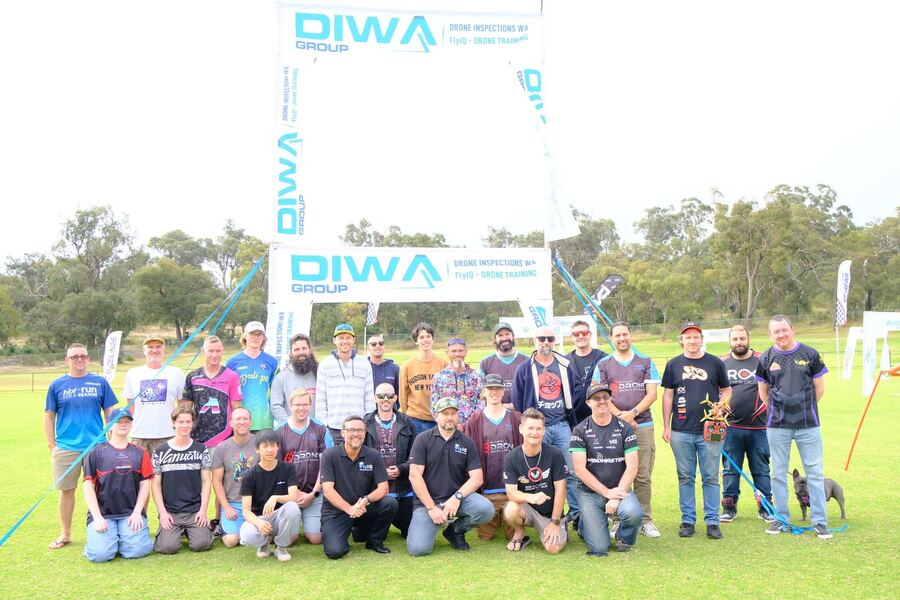
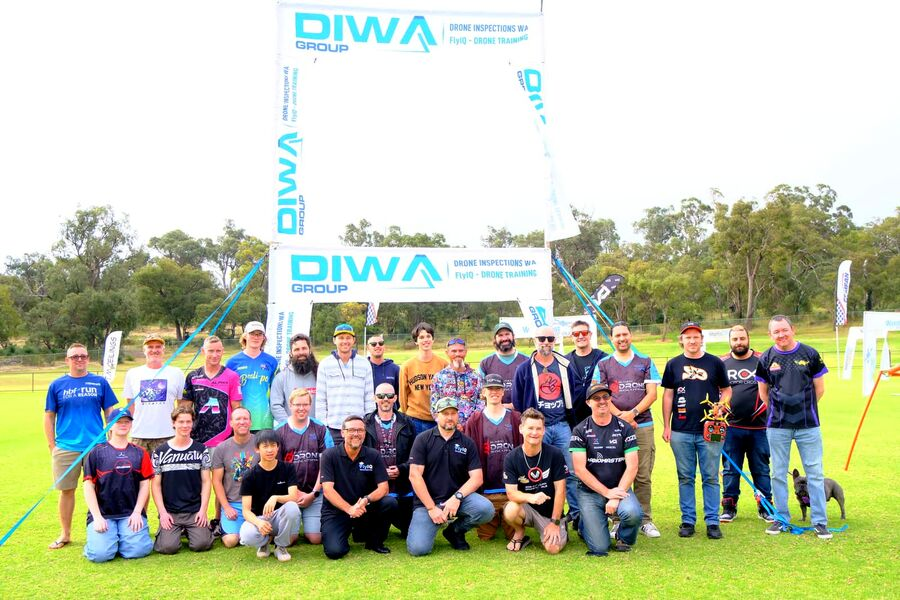
Put the State Champs group shot in About, and lift the photo's contrast
The About box now shows the hero's group shot, the same file, so it is
already cached when the visitor scrolls down. The group runs edge to
edge, so the box takes the photo's own 3:2 shape on desktops and phones
instead of a fixed height that cropped the people at either end; the
tablet strip keeps its height and crops sky instead.

The frame was overexposed: lifted shadows and a white, clipped sky. The
hero and About copies are now a levels stretch of it with a touch more
colour; the album keeps the original. The About box's blue corner tint
read as haze over that sky and is replaced by a shade across the top,
so the sky no longer melts into the page and the box keeps its edge.

Claude-Session: https://claude.ai/code/session_017Ppbmk3sNtd2Yms6oyYSBF

diff --git a/style.css b/style.css
@@ -1280,10 +1280,15 @@ section[id] {
     border-radius: var(--border-radius);
     overflow: hidden;
     box-shadow: var(--shadow-lg);
-    height: 450px;
-    /* Cropped to the members. The 75% keeps the whole group in frame when the box is
-       a short wide strip (tablets); on the desktop box there is no height to spare. */
-    background: url('./assets/club-group.jpg') center 75% / cover no-repeat;
+    /*
+       The State Champs group shot, the same file as the hero, so it is already cached.
+       The group runs edge to edge, so the box takes the photo's own 3:2 shape rather
+       than a fixed height that would crop the people at either end. Tablets keep their
+       short wide strip (below), where the crop takes sky; 90% holds the group and the
+       DIWA gate's lower banner in it.
+    */
+    aspect-ratio: 3 / 2;
+    background: url('./assets/champs-2026/hero-group.jpg') center 90% / cover no-repeat;
     position: relative;
     transform: perspective(1000px) rotateY(-5deg);
     transition: all 1s cubic-bezier(0.175, 0.885, 0.32, 1.275);
@@ -1300,7 +1305,11 @@ section[id] {
     left: 0;
     width: 100%;
     height: 100%;
-    background: linear-gradient(135deg, rgba(41, 167, 223, 0.5) 0%, rgba(41, 167, 223, 0) 50%);
+    /* The old blue corner tint read as haze over this photo's overcast sky. Now: a
+       shade across the top, so the white sky does not melt into the page and the box
+       keeps its edge, and a little at the foot to seat the group in the frame. */
+    background: linear-gradient(180deg, rgba(11, 22, 32, 0.34) 0%, rgba(11, 22, 32, 0.1) 26%,
+            rgba(11, 22, 32, 0) 45%, rgba(11, 22, 32, 0) 75%, rgba(11, 22, 32, 0.22) 100%);
 }
 
 .about-text h3 {
@@ -5187,9 +5196,11 @@ body.gallery-lightbox-open {
             gap: 40px;
         }
     
+        /* Tablets: a full-width strip, cropping sky rather than people. */
         .about-img {
             order: -1;
             height: 400px;
+            aspect-ratio: auto;
         }
     
         .stats-grid {
@@ -5297,6 +5308,12 @@ body.gallery-lightbox-open {
         .event-img,
         .about-img {
             height: 300px;
+        }
+
+        /* Narrower than the photo's own shape, a fixed height would crop the group. */
+        .about-img {
+            height: auto;
+            aspect-ratio: 3 / 2;
         }
     
         .events-layout {
